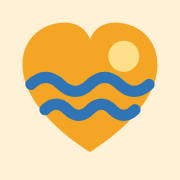
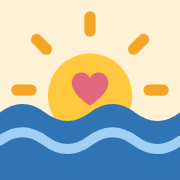
網站圖示改為「洋流上的日出」，太陽胸口加小愛心

diff --git a/videos.html b/videos.html
@@ -8,9 +8,9 @@
 <meta property="og:title" content="影音資料庫">
 <meta property="og:description" content="沈伯洋訪談與影音資料庫：逐筆確認過的 YouTube 影片，可依生活、政策、演講活動、有趣片段等類型與年份篩選，也能搜尋關鍵字。">
 <meta name="theme-color" content="#fff8ec">
-<link rel="icon" href="assets/favicon.svg?v=a9279624" type="image/svg+xml">
-<link rel="icon" href="assets/icon-192.png?v=a9279624" sizes="192x192" type="image/png">
-<link rel="apple-touch-icon" href="assets/icon-180.png?v=a9279624">
+<link rel="icon" href="assets/favicon.svg?v=5af626d4" type="image/svg+xml">
+<link rel="icon" href="assets/icon-192.png?v=5af626d4" sizes="192x192" type="image/png">
+<link rel="apple-touch-icon" href="assets/icon-180.png?v=5af626d4">
 <link rel="manifest" href="site.webmanifest">
 <link rel="preconnect" href="https://fonts.googleapis.com">
 <link rel="preconnect" href="https://fonts.gstatic.com" crossorigin>
@@ -21,7 +21,7 @@
 <a class="sr-only" href="#main">跳到主要內容</a>
 <header class="site-header">
   <div class="wrap">
-    <a class="brand" href="index.html"><img src="assets/favicon.svg?v=a9279624" width="40" height="40" alt=""><span>台北的陽光<small>認識市長候選人沈伯洋 | 親子快速指南</small></span></a>
+    <a class="brand" href="index.html"><img src="assets/favicon.svg?v=5af626d4" width="40" height="40" alt=""><span>台北的陽光<small>認識市長候選人沈伯洋 | 親子快速指南</small></span></a>
     <nav class="top-nav" aria-label="主選單"><a href="index.html">首頁</a><a href="kids.html">小朋友</a><a href="parents.html">家長</a><a href="data.html" aria-current="page">完整資料</a></nav>
   </div>
 </header>

diff --git a/works.html b/works.html
@@ -8,9 +8,9 @@
 <meta property="og:title" content="網站與文字作品">
 <meta property="og:description" content="沈伯洋的競選官網、洋流誌、順報、市長你給我聽好了、HEART 政策島、YouTube 頻道，以及鏡文學專訪〈走出暗黝森林〉。">
 <meta name="theme-color" content="#fff8ec">
-<link rel="icon" href="assets/favicon.svg?v=a9279624" type="image/svg+xml">
-<link rel="icon" href="assets/icon-192.png?v=a9279624" sizes="192x192" type="image/png">
-<link rel="apple-touch-icon" href="assets/icon-180.png?v=a9279624">
+<link rel="icon" href="assets/favicon.svg?v=5af626d4" type="image/svg+xml">
+<link rel="icon" href="assets/icon-192.png?v=5af626d4" sizes="192x192" type="image/png">
+<link rel="apple-touch-icon" href="assets/icon-180.png?v=5af626d4">
 <link rel="manifest" href="site.webmanifest">
 <link rel="preconnect" href="https://fonts.googleapis.com">
 <link rel="preconnect" href="https://fonts.gstatic.com" crossorigin>
@@ -21,7 +21,7 @@
 <a class="sr-only" href="#main">跳到主要內容</a>
 <header class="site-header">
   <div class="wrap">
-    <a class="brand" href="index.html"><img src="assets/favicon.svg?v=a9279624" width="40" height="40" alt=""><span>台北的陽光<small>認識市長候選人沈伯洋 | 親子快速指南</small></span></a>
+    <a class="brand" href="index.html"><img src="assets/favicon.svg?v=5af626d4" width="40" height="40" alt=""><span>台北的陽光<small>認識市長候選人沈伯洋 | 親子快速指南</small></span></a>
     <nav class="top-nav" aria-label="主選單"><a href="index.html">首頁</a><a href="kids.html">小朋友</a><a href="parents.html">家長</a><a href="data.html" aria-current="page">完整資料</a></nav>
   </div>
 </header>

diff --git a/heart.html b/heart.html
@@ -8,9 +8,9 @@
 <meta property="og:title" content="HEART 31 項政見完整版">
 <meta property="og:description" content="沈伯洋選舉公報「有心・用心・台北順起來」31 項政見完整整理，依 HEART 五大主軸分類，附官網細節與資料說明。">
 <meta name="theme-color" content="#fff8ec">
-<link rel="icon" href="assets/favicon.svg?v=a9279624" type="image/svg+xml">
-<link rel="icon" href="assets/icon-192.png?v=a9279624" sizes="192x192" type="image/png">
-<link rel="apple-touch-icon" href="assets/icon-180.png?v=a9279624">
+<link rel="icon" href="assets/favicon.svg?v=5af626d4" type="image/svg+xml">
+<link rel="icon" href="assets/icon-192.png?v=5af626d4" sizes="192x192" type="image/png">
+<link rel="apple-touch-icon" href="assets/icon-180.png?v=5af626d4">
 <link rel="manifest" href="site.webmanifest">
 <link rel="preconnect" href="https://fonts.googleapis.com">
 <link rel="preconnect" href="https://fonts.gstatic.com" crossorigin>
@@ -21,7 +21,7 @@
 <a class="sr-only" href="#main">跳到主要內容</a>
 <header class="site-header">
   <div class="wrap">
-    <a class="brand" href="index.html"><img src="assets/favicon.svg?v=a9279624" width="40" height="40" alt=""><span>台北的陽光<small>認識市長候選人沈伯洋 | 親子快速指南</small></span></a>
+    <a class="brand" href="index.html"><img src="assets/favicon.svg?v=5af626d4" width="40" height="40" alt=""><span>台北的陽光<small>認識市長候選人沈伯洋 | 親子快速指南</small></span></a>
     <nav class="top-nav" aria-label="主選單"><a href="index.html">首頁</a><a href="kids.html">小朋友</a><a href="parents.html">家長</a><a href="data.html" aria-current="page">完整資料</a></nav>
   </div>
 </header>

diff --git a/index.html b/index.html
@@ -8,9 +8,9 @@
 <meta property="og:title" content="台北的陽光">
 <meta property="og:description" content="給家長和小朋友的台北市長候選人沈伯洋整理：他是誰、HEART 五大政見、親子想一想、適合全家看的影片，以及完整資料。">
 <meta name="theme-color" content="#fff8ec">
-<link rel="icon" href="assets/favicon.svg?v=a9279624" type="image/svg+xml">
-<link rel="icon" href="assets/icon-192.png?v=a9279624" sizes="192x192" type="image/png">
-<link rel="apple-touch-icon" href="assets/icon-180.png?v=a9279624">
+<link rel="icon" href="assets/favicon.svg?v=5af626d4" type="image/svg+xml">
+<link rel="icon" href="assets/icon-192.png?v=5af626d4" sizes="192x192" type="image/png">
+<link rel="apple-touch-icon" href="assets/icon-180.png?v=5af626d4">
 <link rel="manifest" href="site.webmanifest">
 <link rel="preconnect" href="https://fonts.googleapis.com">
 <link rel="preconnect" href="https://fonts.gstatic.com" crossorigin>
@@ -21,7 +21,7 @@
 <a class="sr-only" href="#main">跳到主要內容</a>
 <header class="site-header">
   <div class="wrap">
-    <a class="brand" href="index.html"><img src="assets/favicon.svg?v=a9279624" width="40" height="40" alt=""><span>台北的陽光<small>認識市長候選人沈伯洋 | 親子快速指南</small></span></a>
+    <a class="brand" href="index.html"><img src="assets/favicon.svg?v=5af626d4" width="40" height="40" alt=""><span>台北的陽光<small>認識市長候選人沈伯洋 | 親子快速指南</small></span></a>
     <nav class="top-nav" aria-label="主選單"><a href="index.html" aria-current="page">首頁</a><a href="kids.html">小朋友</a><a href="parents.html">家長</a><a href="data.html">完整資料</a></nav>
   </div>
 </header>

diff --git a/family.html b/family.html
@@ -8,9 +8,9 @@
 <meta property="og:title" content="全家一起看">
 <meta property="og:description" content="7 支跟政見無關、適合全家一起看的沈伯洋訪談，加上扮欣梅爾、做光劍、戰鬥陀螺、棒球開球等有趣片段。">
 <meta name="theme-color" content="#fff8ec">
-<link rel="icon" href="assets/favicon.svg?v=a9279624" type="image/svg+xml">
-<link rel="icon" href="assets/icon-192.png?v=a9279624" sizes="192x192" type="image/png">
-<link rel="apple-touch-icon" href="assets/icon-180.png?v=a9279624">
+<link rel="icon" href="assets/favicon.svg?v=5af626d4" type="image/svg+xml">
+<link rel="icon" href="assets/icon-192.png?v=5af626d4" sizes="192x192" type="image/png">
+<link rel="apple-touch-icon" href="assets/icon-180.png?v=5af626d4">
 <link rel="manifest" href="site.webmanifest">
 <link rel="preconnect" href="https://fonts.googleapis.com">
 <link rel="preconnect" href="https://fonts.gstatic.com" crossorigin>
@@ -21,7 +21,7 @@
 <a class="sr-only" href="#main">跳到主要內容</a>
 <header class="site-header">
   <div class="wrap">
-    <a class="brand" href="index.html"><img src="assets/favicon.svg?v=a9279624" width="40" height="40" alt=""><span>台北的陽光<small>認識市長候選人沈伯洋 | 親子快速指南</small></span></a>
+    <a class="brand" href="index.html"><img src="assets/favicon.svg?v=5af626d4" width="40" height="40" alt=""><span>台北的陽光<small>認識市長候選人沈伯洋 | 親子快速指南</small></span></a>
     <nav class="top-nav" aria-label="主選單"><a href="index.html">首頁</a><a href="kids.html">小朋友</a><a href="parents.html" aria-current="page">家長</a><a href="data.html">完整資料</a></nav>
   </div>
 </header>

diff --git a/parents.html b/parents.html
@@ -8,9 +8,9 @@
 <meta property="og:title" content="家長區">
 <meta property="og:description" content="5 分鐘看懂台北市長候選人沈伯洋：參選身分、大家關注的議題、年輕人為什麼喜歡他，以及怎麼跟孩子聊選舉。">
 <meta name="theme-color" content="#fff8ec">
-<link rel="icon" href="assets/favicon.svg?v=a9279624" type="image/svg+xml">
-<link rel="icon" href="assets/icon-192.png?v=a9279624" sizes="192x192" type="image/png">
-<link rel="apple-touch-icon" href="assets/icon-180.png?v=a9279624">
+<link rel="icon" href="assets/favicon.svg?v=5af626d4" type="image/svg+xml">
+<link rel="icon" href="assets/icon-192.png?v=5af626d4" sizes="192x192" type="image/png">
+<link rel="apple-touch-icon" href="assets/icon-180.png?v=5af626d4">
 <link rel="manifest" href="site.webmanifest">
 <link rel="preconnect" href="https://fonts.googleapis.com">
 <link rel="preconnect" href="https://fonts.gstatic.com" crossorigin>
@@ -21,7 +21,7 @@
 <a class="sr-only" href="#main">跳到主要內容</a>
 <header class="site-header">
   <div class="wrap">
-    <a class="brand" href="index.html"><img src="assets/favicon.svg?v=a9279624" width="40" height="40" alt=""><span>台北的陽光<small>認識市長候選人沈伯洋 | 親子快速指南</small></span></a>
+    <a class="brand" href="index.html"><img src="assets/favicon.svg?v=5af626d4" width="40" height="40" alt=""><span>台北的陽光<small>認識市長候選人沈伯洋 | 親子快速指南</small></span></a>
     <nav class="top-nav" aria-label="主選單"><a href="index.html">首頁</a><a href="kids.html">小朋友</a><a href="parents.html" aria-current="page">家長</a><a href="data.html">完整資料</a></nav>
   </div>
 </header>

diff --git a/kids.html b/kids.html
@@ -8,9 +8,9 @@
 <meta property="og:title" content="小朋友區">
 <meta property="og:description" content="用繪本的方式認識沈伯洋的 HEART 五大政見，每個政見都有「想一想」卡片，還有他的成長小故事和有趣影片。">
 <meta name="theme-color" content="#fff8ec">
-<link rel="icon" href="assets/favicon.svg?v=a9279624" type="image/svg+xml">
-<link rel="icon" href="assets/icon-192.png?v=a9279624" sizes="192x192" type="image/png">
-<link rel="apple-touch-icon" href="assets/icon-180.png?v=a9279624">
+<link rel="icon" href="assets/favicon.svg?v=5af626d4" type="image/svg+xml">
+<link rel="icon" href="assets/icon-192.png?v=5af626d4" sizes="192x192" type="image/png">
+<link rel="apple-touch-icon" href="assets/icon-180.png?v=5af626d4">
 <link rel="manifest" href="site.webmanifest">
 <link rel="preconnect" href="https://fonts.googleapis.com">
 <link rel="preconnect" href="https://fonts.gstatic.com" crossorigin>
@@ -21,7 +21,7 @@
 <a class="sr-only" href="#main">跳到主要內容</a>
 <header class="site-header">
   <div class="wrap">
-    <a class="brand" href="index.html"><img src="assets/favicon.svg?v=a9279624" width="40" height="40" alt=""><span>台北的陽光<small>認識市長候選人沈伯洋 | 親子快速指南</small></span></a>
+    <a class="brand" href="index.html"><img src="assets/favicon.svg?v=5af626d4" width="40" height="40" alt=""><span>台北的陽光<small>認識市長候選人沈伯洋 | 親子快速指南</small></span></a>
     <nav class="top-nav" aria-label="主選單"><a href="index.html">首頁</a><a href="kids.html" aria-current="page">小朋友</a><a href="parents.html">家長</a><a href="data.html">完整資料</a></nav>
   </div>
 </header>

diff --git a/think.html b/think.html
@@ -8,9 +8,9 @@
 <meta property="og:title" content="思辨題">
 <meta property="og:description" content="外界對沈伯洋的 10 個常見批評：有人覺得什麼、他怎麼回應、查證後的事實，以及給孩子的討論題。">
 <meta name="theme-color" content="#fff8ec">
-<link rel="icon" href="assets/favicon.svg?v=a9279624" type="image/svg+xml">
-<link rel="icon" href="assets/icon-192.png?v=a9279624" sizes="192x192" type="image/png">
-<link rel="apple-touch-icon" href="assets/icon-180.png?v=a9279624">
+<link rel="icon" href="assets/favicon.svg?v=5af626d4" type="image/svg+xml">
+<link rel="icon" href="assets/icon-192.png?v=5af626d4" sizes="192x192" type="image/png">
+<link rel="apple-touch-icon" href="assets/icon-180.png?v=5af626d4">
 <link rel="manifest" href="site.webmanifest">
 <link rel="preconnect" href="https://fonts.googleapis.com">
 <link rel="preconnect" href="https://fonts.gstatic.com" crossorigin>
@@ -21,7 +21,7 @@
 <a class="sr-only" href="#main">跳到主要內容</a>
 <header class="site-header">
   <div class="wrap">
-    <a class="brand" href="index.html"><img src="assets/favicon.svg?v=a9279624" width="40" height="40" alt=""><span>台北的陽光<small>認識市長候選人沈伯洋 | 親子快速指南</small></span></a>
+    <a class="brand" href="index.html"><img src="assets/favicon.svg?v=5af626d4" width="40" height="40" alt=""><span>台北的陽光<small>認識市長候選人沈伯洋 | 親子快速指南</small></span></a>
     <nav class="top-nav" aria-label="主選單"><a href="index.html">首頁</a><a href="kids.html">小朋友</a><a href="parents.html" aria-current="page">家長</a><a href="data.html">完整資料</a></nav>
   </div>
 </header>

diff --git a/data.html b/data.html
@@ -8,9 +8,9 @@
 <meta property="og:title" content="完整資料">
 <meta property="og:description" content="沈伯洋完整資料區：HEART 31 項政見、影音資料庫、網站與文字作品、全站資料來源。">
 <meta name="theme-color" content="#fff8ec">
-<link rel="icon" href="assets/favicon.svg?v=a9279624" type="image/svg+xml">
-<link rel="icon" href="assets/icon-192.png?v=a9279624" sizes="192x192" type="image/png">
-<link rel="apple-touch-icon" href="assets/icon-180.png?v=a9279624">
+<link rel="icon" href="assets/favicon.svg?v=5af626d4" type="image/svg+xml">
+<link rel="icon" href="assets/icon-192.png?v=5af626d4" sizes="192x192" type="image/png">
+<link rel="apple-touch-icon" href="assets/icon-180.png?v=5af626d4">
 <link rel="manifest" href="site.webmanifest">
 <link rel="preconnect" href="https://fonts.googleapis.com">
 <link rel="preconnect" href="https://fonts.gstatic.com" crossorigin>
@@ -21,7 +21,7 @@
 <a class="sr-only" href="#main">跳到主要內容</a>
 <header class="site-header">
   <div class="wrap">
-    <a class="brand" href="index.html"><img src="assets/favicon.svg?v=a9279624" width="40" height="40" alt=""><span>台北的陽光<small>認識市長候選人沈伯洋 | 親子快速指南</small></span></a>
+    <a class="brand" href="index.html"><img src="assets/favicon.svg?v=5af626d4" width="40" height="40" alt=""><span>台北的陽光<small>認識市長候選人沈伯洋 | 親子快速指南</small></span></a>
     <nav class="top-nav" aria-label="主選單"><a href="index.html">首頁</a><a href="kids.html">小朋友</a><a href="parents.html">家長</a><a href="data.html" aria-current="page">完整資料</a></nav>
   </div>
 </header>

diff --git a/sources.html b/sources.html
@@ -8,9 +8,9 @@
 <meta property="og:title" content="資料來源總表">
 <meta property="og:description" content="本站引用的所有新聞、官網與影片連結總表，依頁面分類。">
 <meta name="theme-color" content="#fff8ec">
-<link rel="icon" href="assets/favicon.svg?v=a9279624" type="image/svg+xml">
-<link rel="icon" href="assets/icon-192.png?v=a9279624" sizes="192x192" type="image/png">
-<link rel="apple-touch-icon" href="assets/icon-180.png?v=a9279624">
+<link rel="icon" href="assets/favicon.svg?v=5af626d4" type="image/svg+xml">
+<link rel="icon" href="assets/icon-192.png?v=5af626d4" sizes="192x192" type="image/png">
+<link rel="apple-touch-icon" href="assets/icon-180.png?v=5af626d4">
 <link rel="manifest" href="site.webmanifest">
 <link rel="preconnect" href="https://fonts.googleapis.com">
 <link rel="preconnect" href="https://fonts.gstatic.com" crossorigin>
@@ -21,7 +21,7 @@
 <a class="sr-only" href="#main">跳到主要內容</a>
 <header class="site-header">
   <div class="wrap">
-    <a class="brand" href="index.html"><img src="assets/favicon.svg?v=a9279624" width="40" height="40" alt=""><span>台北的陽光<small>認識市長候選人沈伯洋 | 親子快速指南</small></span></a>
+    <a class="brand" href="index.html"><img src="assets/favicon.svg?v=5af626d4" width="40" height="40" alt=""><span>台北的陽光<small>認識市長候選人沈伯洋 | 親子快速指南</small></span></a>
     <nav class="top-nav" aria-label="主選單"><a href="index.html">首頁</a><a href="kids.html">小朋友</a><a href="parents.html">家長</a><a href="data.html" aria-current="page">完整資料</a></nav>
   </div>
 </header>
